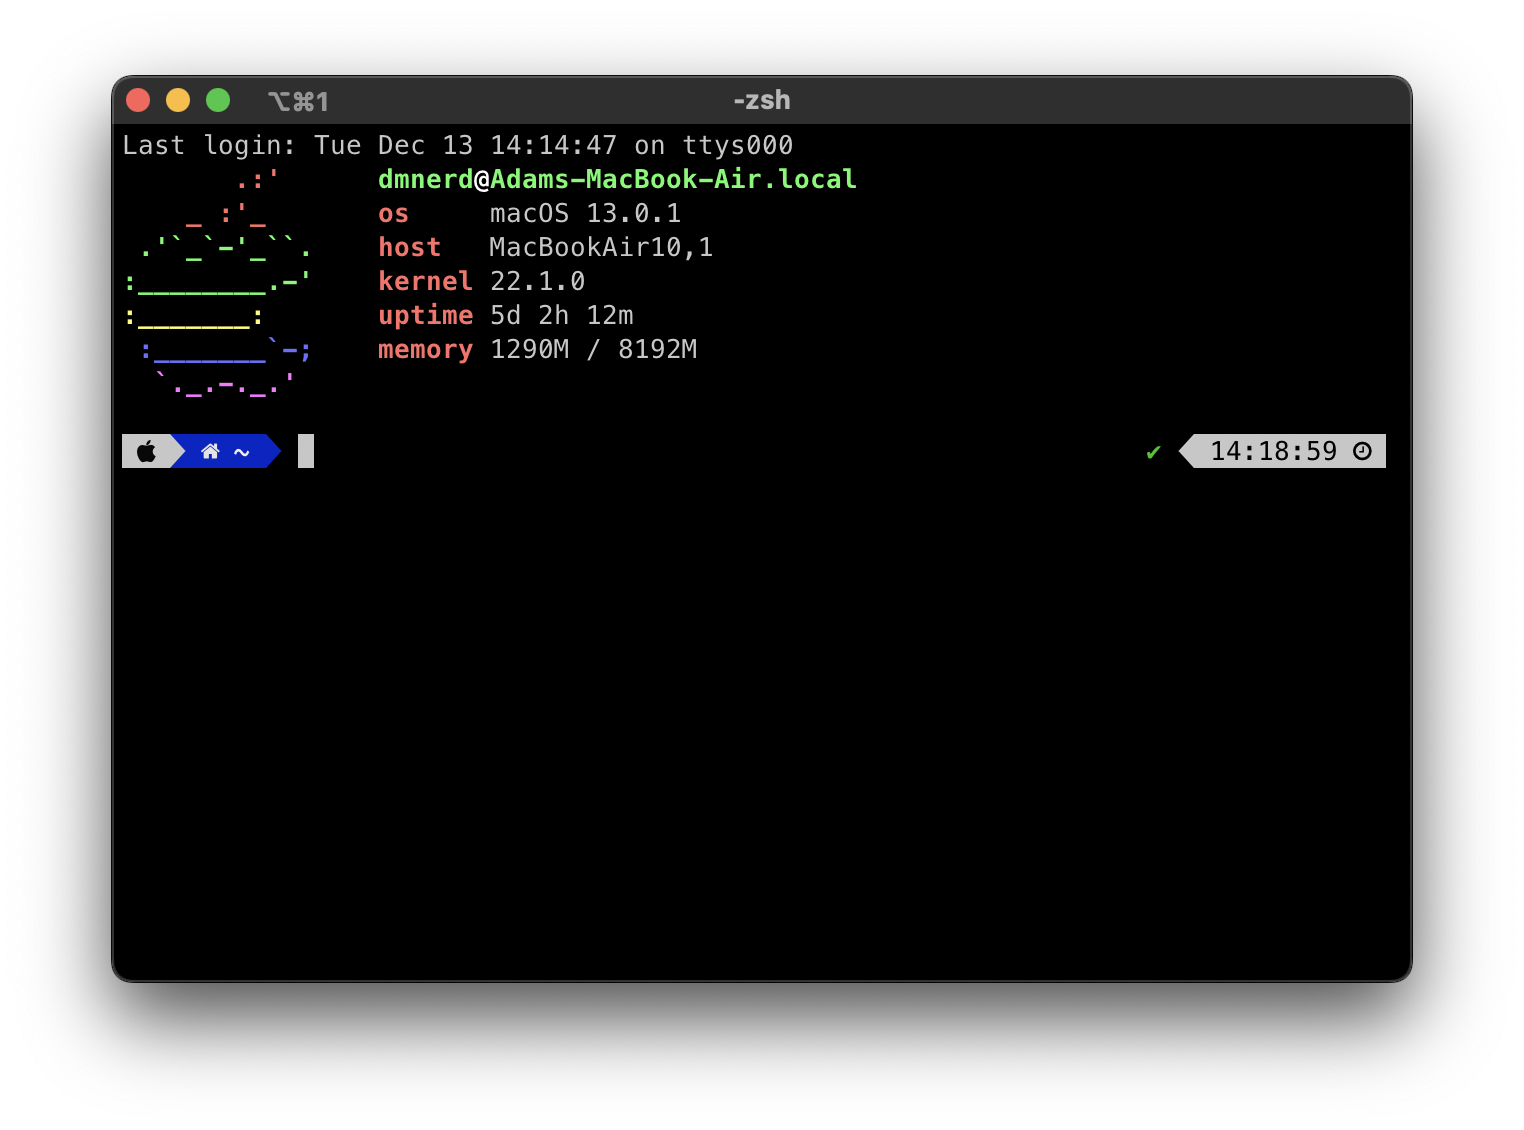
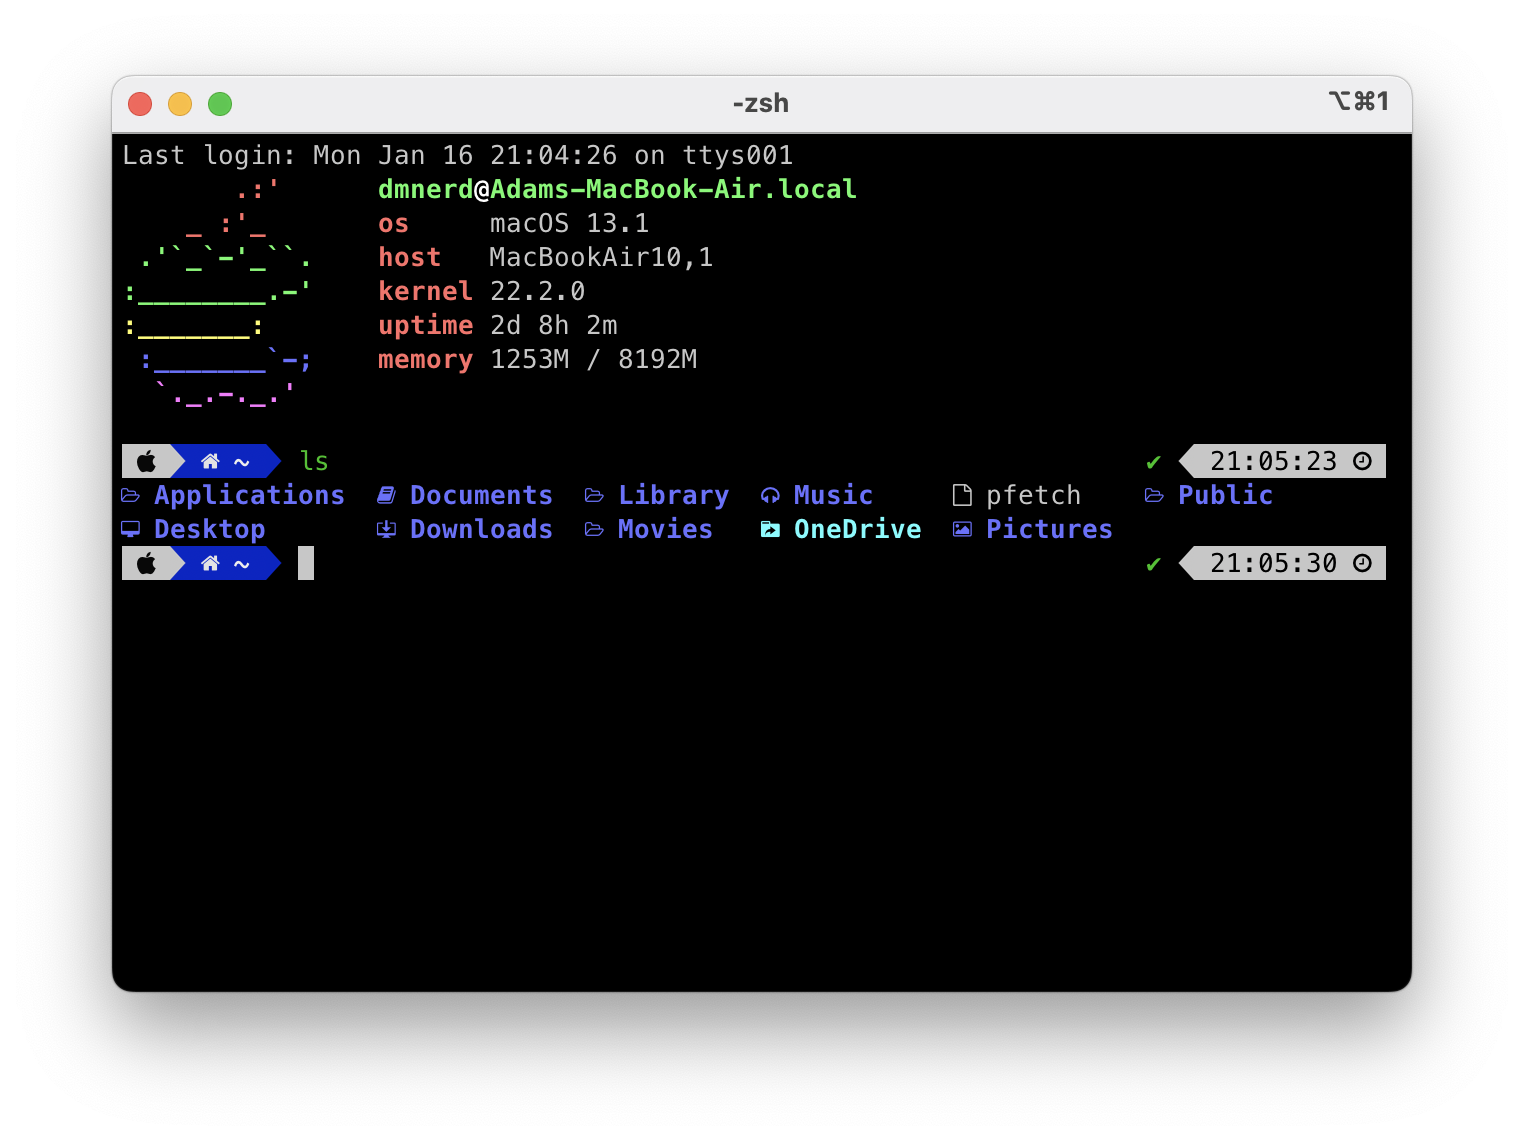
Updates

diff --git a/README.md b/README.md
@@ -23,9 +23,13 @@ My dotfiles form MacOS setup
 
     brew install pfetch
     
-## top command
+## Top command
 
     brew install bpytop
+
+## LSDeluxe
+
+    brew install lsd    
 
 ![bpytop](https://raw.githubusercontent.com/DMNerd/dotfiles/main/Screenshots/bpytop.png "bpytop")
 
